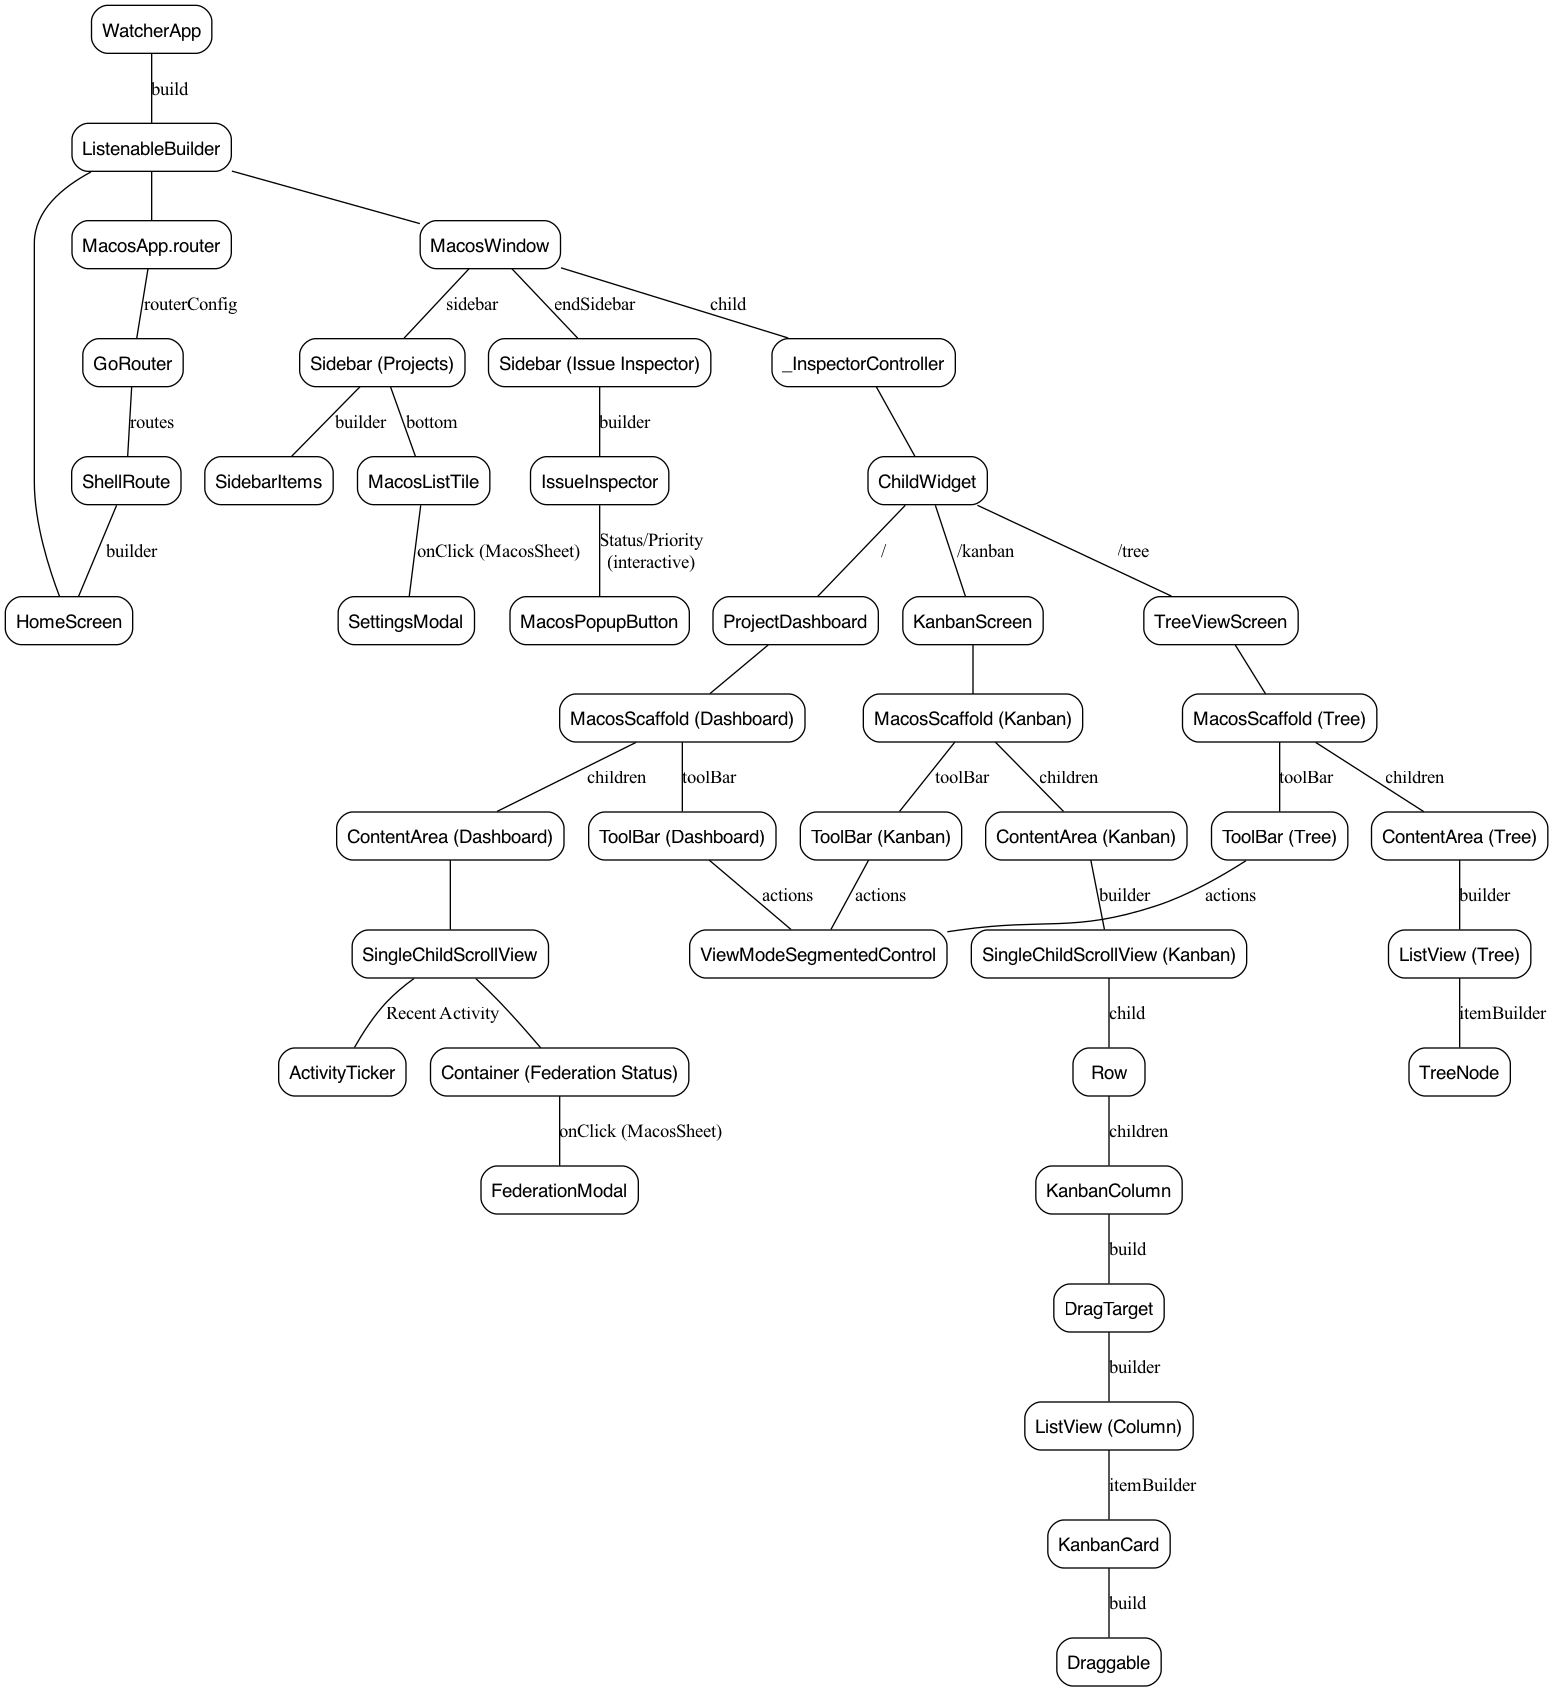
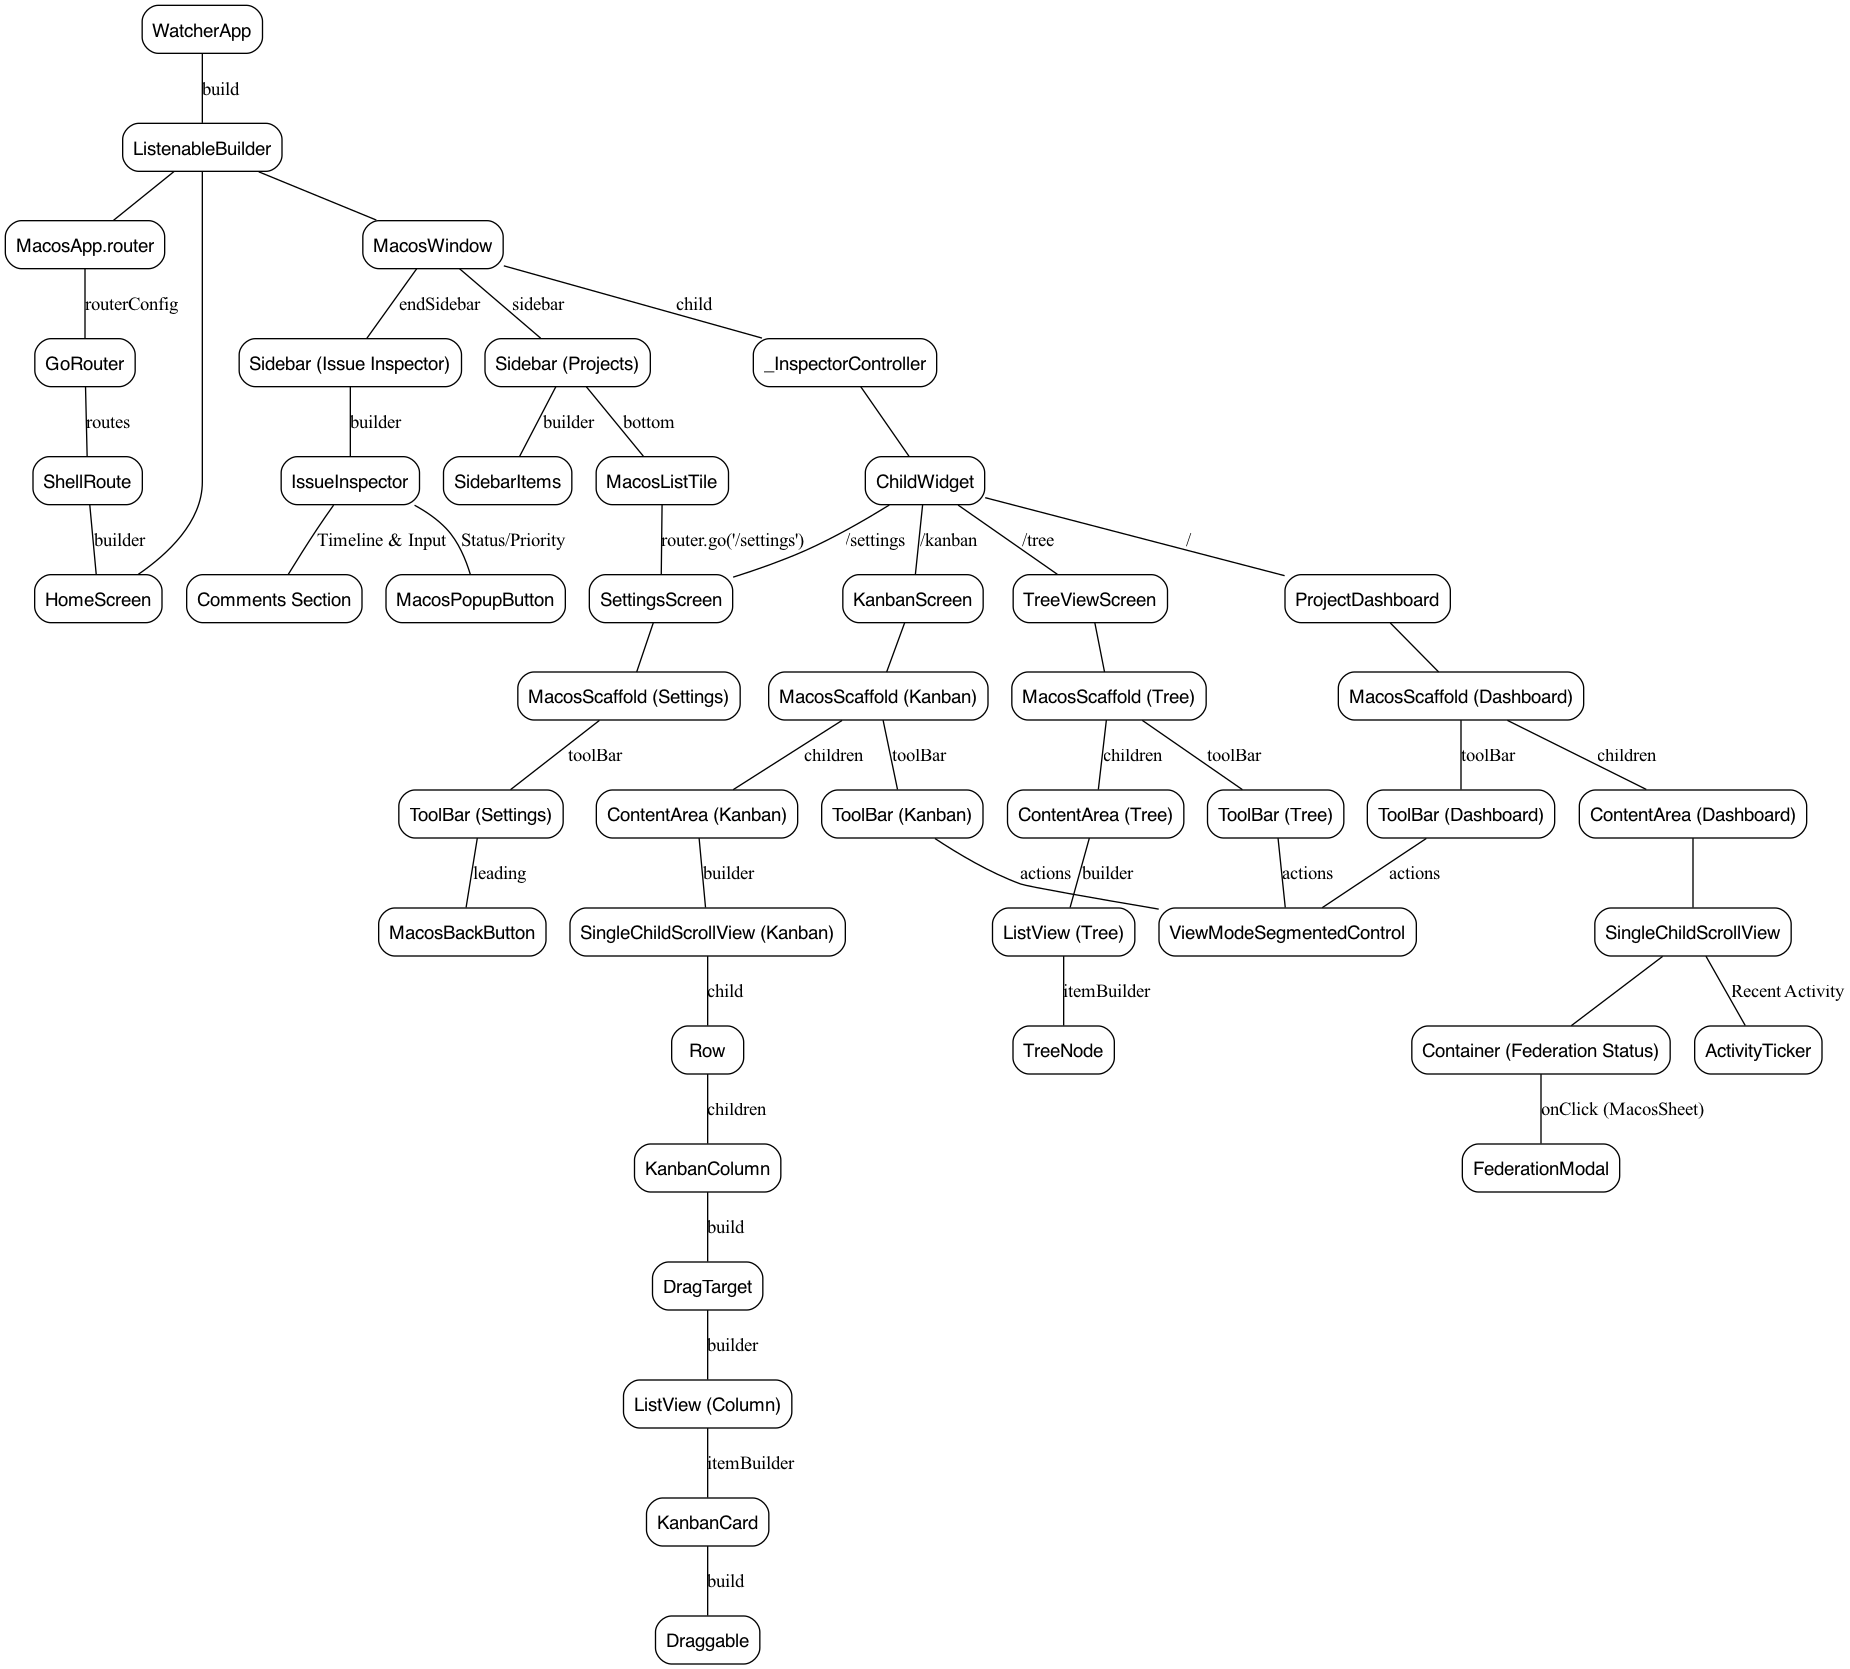
feat: add back button to settings screen and update widget tree architecture diagram

Changed region(s): [[0.0, 0.0, 1.0, 1.0]]

diff --git a/lib/screens/settings_screen.dart b/lib/screens/settings_screen.dart
@@ -1,5 +1,6 @@
 import 'package:flutter/cupertino.dart';
 import 'package:macos_ui/macos_ui.dart';
+import 'package:go_router/go_router.dart';
 import '../main.dart';
 
 class SettingsScreen extends StatefulWidget {
@@ -30,9 +31,28 @@ class _SettingsScreenState extends State<SettingsScreen> {
       listenable: appState,
       builder: (context, _) {
         return MacosScaffold(
-          toolBar: const ToolBar(
-            title: Text('Settings'),
+          toolBar: ToolBar(
+            title: const Text('Settings'),
             titleWidth: 150.0,
+            leading: MacosTooltip(
+              message: 'Back to Dashboard',
+              useMousePosition: false,
+              child: MacosIconButton(
+                icon: const MacosIcon(
+                  CupertinoIcons.back,
+                  size: 20,
+                ),
+                boxConstraints: const BoxConstraints(
+                  minHeight: 20,
+                  minWidth: 20,
+                  maxWidth: 48,
+                  maxHeight: 38,
+                ),
+                onPressed: () {
+                  context.go('/');
+                },
+              ),
+            ),
           ),
           children: [
             ContentArea(
